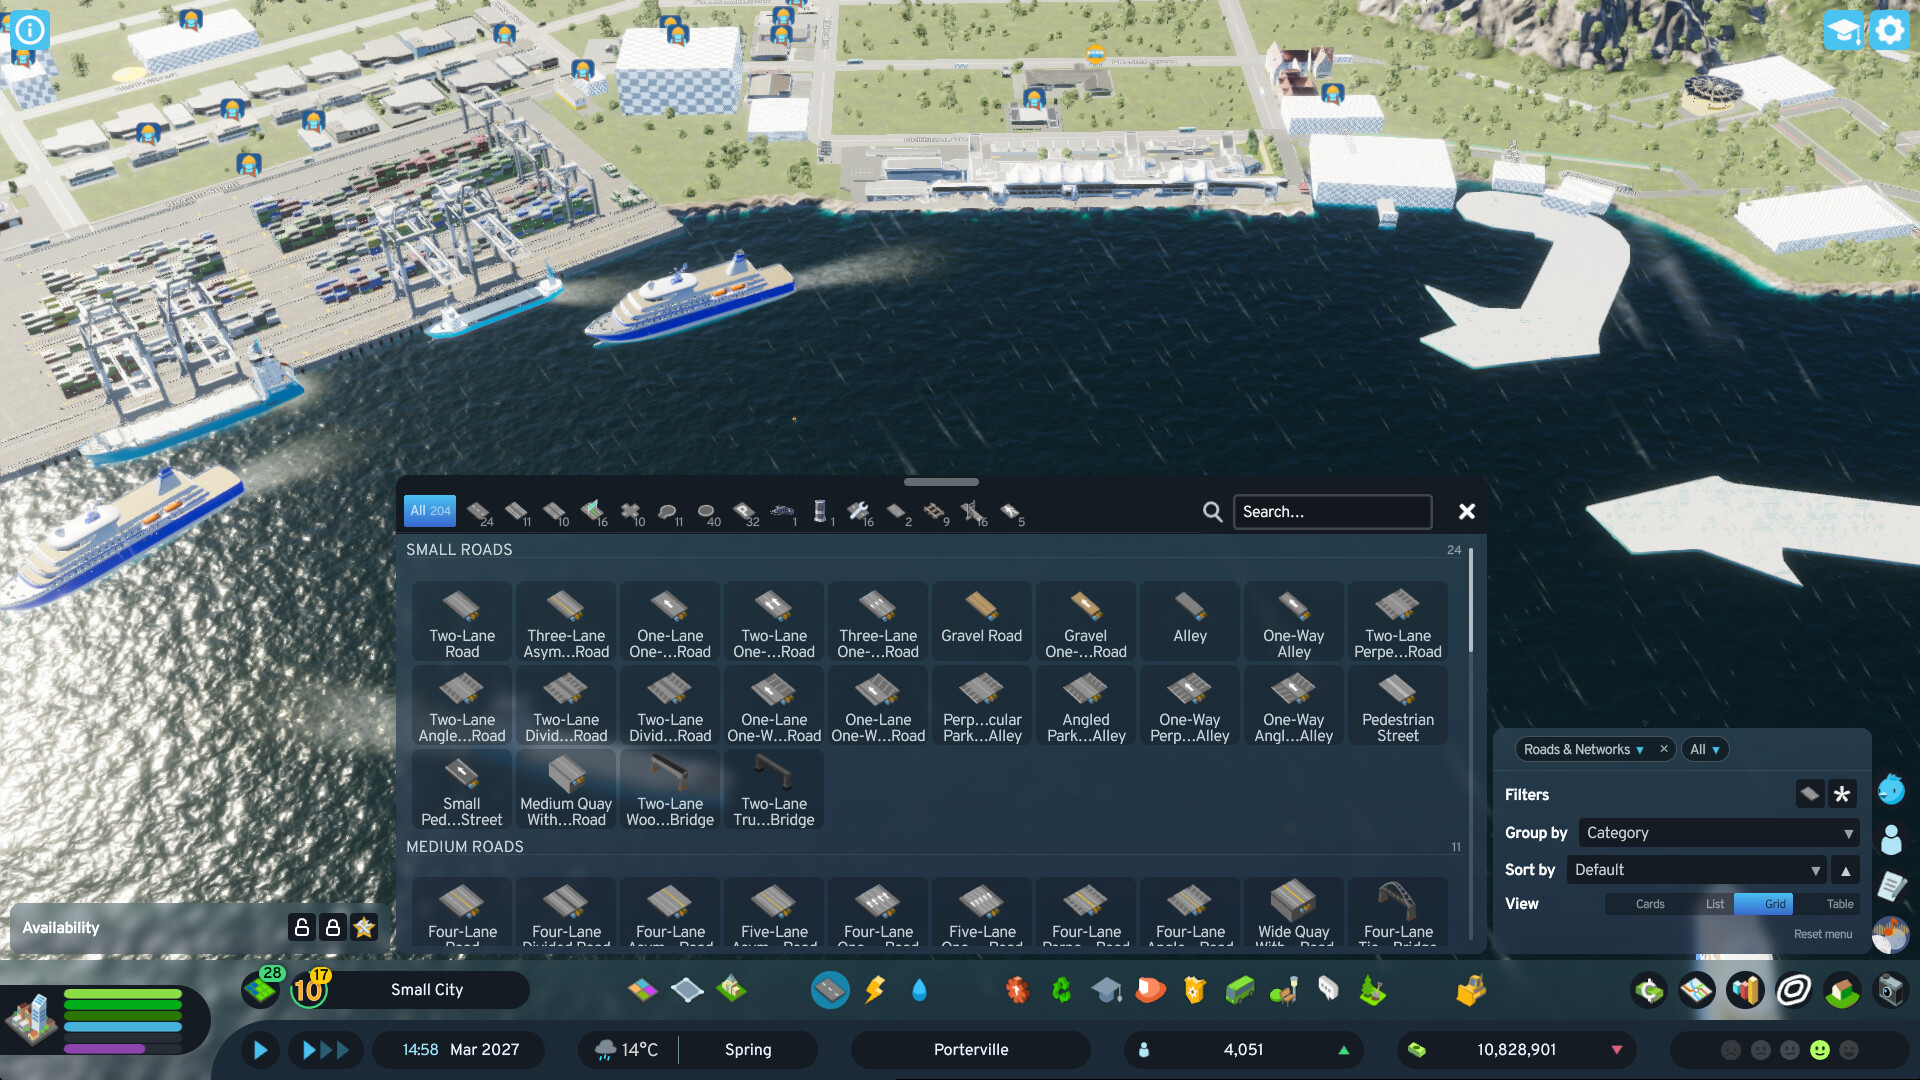
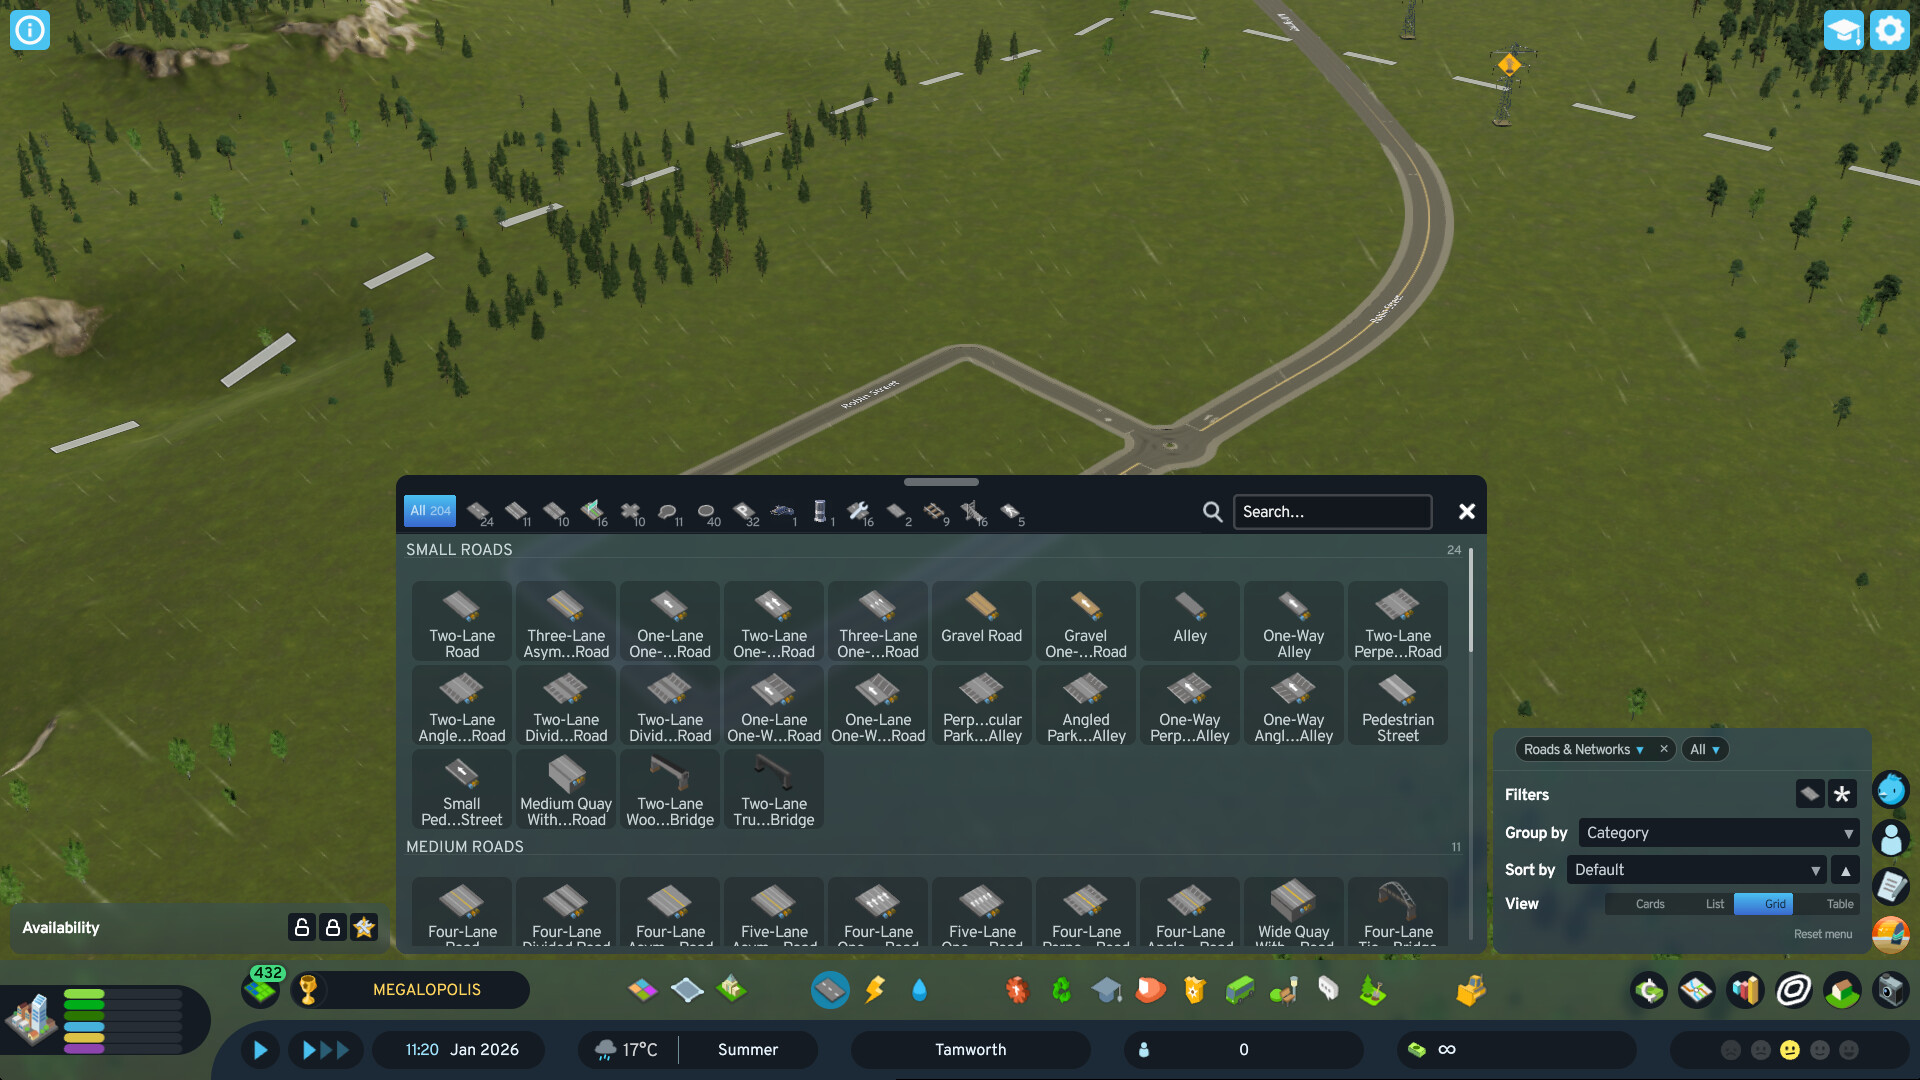
docs: store screenshots retaken on an empty Windy Fjords map
Porterville's frames carried missing assets. The new set is a fresh
game with everything unlocked, in daylight, on the main prefix at
1920x1080. Fort Johnson was tried and crashes natively after every
load, mod or no mod; the verification record has the details.

Claude-Session: https://claude.ai/code/session_01DH4nVvAbxBMPua1tEQAXWY

diff --git a/docs/verification.md b/docs/verification.md
@@ -2092,3 +2092,13 @@ configuration's image paths made absolute; the content folder listing
 "Mod published with Id=158589", access level Unlisted, version 0.1.0,
 recommended game version 1.6.*. The listing resolves as "Better Building
 Menu - Paradox Mods" at https://mods.paradoxplaza.com/mods/158589/Windows.
+
+**Screenshots retaken (20:2x).** Porterville's frames showed missing assets, so
+the four store screenshots were retaken in a new Windy Fjords game (Unlock All,
+Unlimited Money, tutorials off, 11:20 in-game) on the main prefix at 1920x1080:
+Roads grid, Roads table, Education & Research cards with the City High School
+hover card, Education & Research grid. The subscribed Fort Johnson city was
+tried first and crashed natively one to three minutes after every load, with
+the mod removed from both Mods roots as well; it references assets this install
+lacks (CitiesCarCustoms, PetrolPonyGarage, MuscleCar01–05, BusCO01,
+NA_PoliceVehicle02, GrandHotel01). Pushed to the listing with `Update`.
